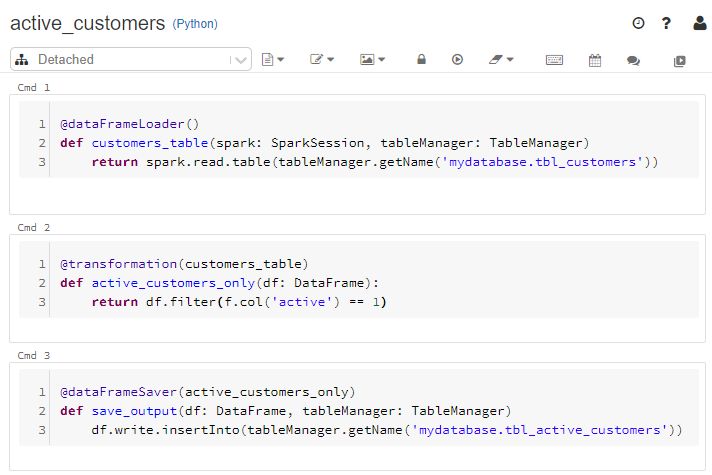
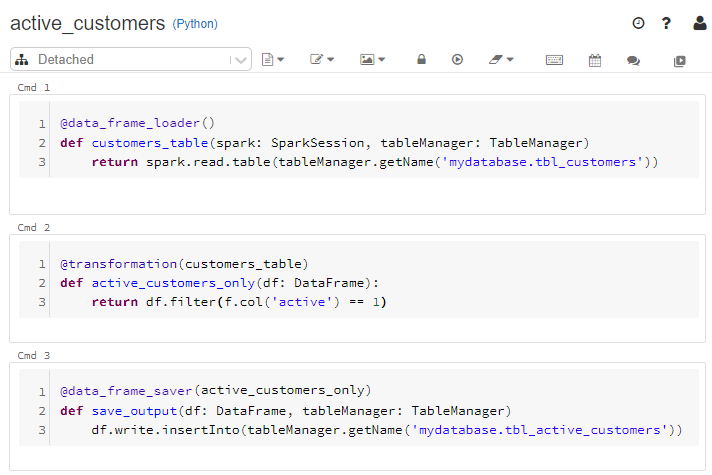
camel2snake conversion

Changed region(s): [[0.0927, 0.7958, 0.5253, 0.8547], [0.0618, 0.2358, 0.309, 0.2947]]

diff --git a/docs/data-pipelines-workflow/managing-datalake.md b/docs/data-pipelines-workflow/managing-datalake.md
@@ -71,7 +71,7 @@ parameters:
     tables:
       customer.my_table:
       product.another_table:
-        partitionBy: ['date'] # optional table partitioning customization
+        partition_by: ['date'] # optional table partitioning customization
 ```
 
 ### (required) Setting datalake storage path
@@ -82,24 +82,24 @@ Add the following configuration to `config.yaml` to set the default storage path
 parameters:
   datalakebundle:
     defaults:
-      targetPath: '/mybase/data/{dbIdentifier}/{tableIdentifier}.delta'
+      target_path: '/mybase/data/{db_identifier}/{table_identifier}.delta'
 ```
 
 When setting `defaults`, you can utilize the following placeholders:
 
 * `{identifier}` - `customer.my_table`
-* `{dbIdentifier}` - `customer`
-* `{tableIdentifier}` - `my_table`
+* `{db_identifier}` - `customer`
+* `{table_identifier}` - `my_table`
 * [parsed custom fields](#8-parsing-fields-from-table-identifier)
 
-To modify storage path of any specific table, add the `targetPath` attribute to given table's configuration:
+To modify storage path of any specific table, add the `target_path` attribute to given table's configuration:
 
 ```yaml
 parameters:
   datalakebundle:
     tables:
       customer.my_table:
-        targetPath: '/some_custom_base/{dbIdentifier}/{tableIdentifier}.delta'
+        target_path: '/some_custom_base/{db_identifier}/{table_identifier}.delta'
 ```
 
 ### Customizing table names
@@ -112,18 +112,18 @@ By default, all tables are prefixed with the environment name (dev/test/prod/...
 parameters:
   datalakebundle:
     table:
-      nameTemplate: '%kernel.environment%_{identifier}'
+      name_template: '%kernel.environment%_{identifier}'
 ```
 
 The `{identifier}` is resolved to the table identifier defined in the `datalakebundle.tables` configuration (see above).
 
-By changing the `nameTemplate` option, you may add some prefix or suffix to both the database, or the table names:
+By changing the `name_template` option, you may add some prefix or suffix to both the database, or the table names:
 
 ```yaml
 parameters:
   datalakebundle:
     table:
-      nameTemplate: '%kernel.environment%_{dbIdentifier}.tableprefix_{tableIdentifier}_tablesufix'
+      name_template: '%kernel.environment%_{db_identifier}.tableprefix_{table_identifier}_tablesufix'
 ```
 
 ## 4. Writing function-based notebooks
@@ -141,13 +141,13 @@ Just write the function, annotate it with `@[decorator]` (details bellow) and ru
 
 ### Datalake-related decorators
 
-Besides the standard `@notebookFunction` decorator, the [datalake-bundle](https://github.com/daipe-ai/datalake-bundle) provides you with **3 new types of decorators**:
+Besides the standard `@notebook_function` decorator, the [datalake-bundle](https://github.com/daipe-ai/datalake-bundle) provides you with **3 new types of decorators**:
  
-`@dataFrameLoader` - loads some Spark dataframe (from Hive table, csv, ...) and returns it
+`@data_frame_loader` - loads some Spark dataframe (from Hive table, csv, ...) and returns it
 
 * Support for displaying results by setting the `display=True` decorator argument.
 
-![alt text](../images/dataFrameLoader.png)
+![alt text](../images/data_frame_loader.png)
 
 `@transformation` - transforms given dataframe(s) (filter, JOINing, grouping, ...) and returns the result
 
@@ -156,9 +156,9 @@ Besides the standard `@notebookFunction` decorator, the [datalake-bundle](https:
 
 ![alt text](../images/transformation.png)
 
-`@dataFrameSaver` - saves given dataframe into some permanent storage (parquet, Delta, csv, ...)
+`@data_frame_saver` - saves given dataframe into some permanent storage (parquet, Delta, csv, ...)
 
-![alt text](../images/dataFrameSaver.png)
+![alt text](../images/data_frame_saver.png)
 
 ### Chaining notebook-functions
 
@@ -180,21 +180,21 @@ parameters:
     tables:
       customer.my_table:
         params:
-          testDataPath: '/foo/bar'
+          test_data_path: '/foo/bar'
 ```
 
 Code of the **customer/my_table.py** notebook:
 
 ```python
 from logging import Logger
-from datalakebundle.notebook.decorators import notebookFunction, tableParams
+from datalakebundle.notebook.decorators import notebook_function, table_params
 
-@notebookFunction(tableParams('customer.my_table').testDataPath)
-def customers_table(testDataPath: str, logger: Logger):
-    logger.info(f'Test data path: {testDataPath}')
+@notebook_function(table_params('customer.my_table').test_data_path)
+def customers_table(test_data_path: str, logger: Logger):
+    logger.info(f'Test data path: {test_data_path}')
 ```
 
-The `tableParams('customer.my_table')` function call is a shortcut to using `%datalakebundle.tables."customer.my_table".params%` string parameter.
+The `table_params('customer.my_table')` function call is a shortcut to using `%datalakebundle.tables."customer.my_table".params%` string parameter.
 
 ## 6. Tables management
 
@@ -206,28 +206,28 @@ The following example recreates the `my_crm.customers` table (delete old data, c
 ```python
 from logging import Logger
 from pyspark.sql.dataframe import DataFrame
-from datalakebundle.notebook.decorators import dataFrameSaver
+from datalakebundle.notebook.decorators import data_frame_saver
 from datalakebundle.table.TableManager import TableManager
 
-@dataFrameSaver()
-def customers_table(df: DataFrame, logger: Logger, tableManager: TableManager):
+@data_frame_saver()
+def customers_table(df: DataFrame, logger: Logger, table_manager: TableManager):
     logger.info('Recreating table my_crm.customers')
 
-    tableManager.recreate('my_crm.customers')
+    table_manager.recreate('my_crm.customers')
 
-    return df.insertInto(tableManager.getName('my_crm.customers'))
+    return df.insertInto(table_manager.get_name('my_crm.customers'))
 ```
 
 **All TableManager's methods**:
 
-* `getName('my_crm.customers')` - returns final table name
-* `getConfig('my_crm.customers')` - returns [TableConfig instance](https://github.com/daipe-ai/datalake-bundle/blob/master/src/datalakebundle/table/config/TableConfig.py)
+* `get_name('my_crm.customers')` - returns final table name
+* `get_config('my_crm.customers')` - returns [TableConfig instance](https://github.com/daipe-ai/datalake-bundle/blob/master/src/datalakebundle/table/config/TableConfig.py)
 * `create('my_crm.customers')` - creates table
-* `createIfNotExists('my_crm.customers')` - creates table only if not exist yet
+* `create_if_not_exists('my_crm.customers')` - creates table only if not exist yet
 * `recreate('my_crm.customers')` - recreates (deletes Hive table, **deletes data**, create new empty table)
 * `exists('my_crm.customers')` - checks if table exists
 * `delete('my_crm.customers')` - deletes Hive table, **deletes data**
-* `optimizeAll()` - runs `OPTIMIZE` command on all defined tables
+* `optimize_all()` - runs `OPTIMIZE` command on all defined tables
 
 ## 7. Managing datalake tables using the console commands
 
@@ -264,7 +264,7 @@ You may always define the attribute **explictly** in the tables configuration:
 parameters:
   datalakebundle:
     table:
-      nameTemplate: '{identifier}'
+      name_template: '{identifier}'
     tables:
       customer_e.my_table:
         encrypted: True
@@ -278,9 +278,9 @@ If you don't want to duplicate the configuration, try using the `defaults` confi
 parameters:
   datalakebundle:
     table:
-      nameTemplate: '{identifier}'
+      name_template: '{identifier}'
       defaults:
-        encrypted: !expr 'dbIdentifier[-1:] == "e"'
+        encrypted: !expr 'db_identifier[-1:] == "e"'
     tables:
       customer_e.my_table:
       product_p.another_table:
@@ -294,25 +294,25 @@ from datalakebundle.table.identifier.ValueResolverInterface import ValueResolver
 
 class TargetPathResolver(ValueResolverInterface):
 
-    def __init__(self, basePath: str):
-        self.__basePath = basePath
+    def __init__(self, base_path: str):
+        self.__base_path = base_path
 
-    def resolve(self, rawTableConfig: Box):
-        encryptedString = 'encrypted' if rawTableConfig.encrypted is True else 'plain'
+    def resolve(self, raw_table_config: Box):
+        encrypted_string = 'encrypted' if raw_table_config.encrypted is True else 'plain'
 
-        return self.__basePath + '/' + rawTableConfig.dbIdentifier + '/' + encryptedString + '/' + rawTableConfig.tableIdentifier + '.delta'
+        return self.__base_path + '/' + raw_table_config.db_identifier + '/' + encrypted_string + '/' + raw_table_config.table_identifier + '.delta'
 ```
 
 ```yaml
 parameters:
   datalakebundle:
     table:
-      nameTemplate: '{identifier}'
+      name_template: '{identifier}'
       defaults:
-        targetPath:
-          resolverClass: 'datalakebundle.test.TargetPathResolver'
-          resolverArguments:
-            - '%datalake.basePath%'
+        target_path:
+          resolver_class: 'datalakebundle.test.TargetPathResolver'
+          resolver_arguments:
+            - '%datalake.base_path%'
     tables:
       customer_e.my_table:
       product_p.another_table:

diff --git a/docs/data-pipelines-workflow/coding-basics.md b/docs/data-pipelines-workflow/coding-basics.md
@@ -11,7 +11,7 @@ Compared to bare notebooks, the function-based approach brings the **following a
 1. utilize pre-configured objects to automate repetitive tasks
 
 Function-based notebooks have been designed to provide the same user-experience as bare notebooks.
-Just write the function, annotate it with the `@notebookFunction` decorator and run the cell.
+Just write the function, annotate it with the `@notebook_function` decorator and run the cell.
 
 ![alt text](../images/notebook-functions.png)
 
@@ -24,11 +24,11 @@ Similarly, once you run the `save_output` function's cell, it gets automatically
 Notebook functions can be injected with objects defined in the app:
 
 ```python
-from databricksbundle.notebook.decorator.notebookFunction import notebookFunction
+from databricksbundle.notebook.decorator.notebook_function import notebook_function
 from logging import Logger
 from pyspark.sql.session import SparkSession
 
-@notebookFunction()
+@notebook_function()
 def customers_table(spark: SparkSession, logger: Logger):
     logger.info('Reading my_crm.customers')
 
@@ -48,14 +48,14 @@ Logger instance for the given notebook.
 
 ### (Expert) Passing explicitly defined services into notebook functions
 
-Services, which cannot be autowired (= classes with multiple instances), can be injected into the notebook functions explicitly using the `@serviceName` notation:
+Services, which cannot be autowired (= classes with multiple instances), can be injected into the notebook functions explicitly using the `@service_name` notation:
 
 ```python
-from databricksbundle.notebook.decorator.notebookFunction import notebookFunction
+from databricksbundle.notebook.decorator.notebook_function import notebook_function
 
-@notebookFunction('@my.service')
-def customers_table(myService: MyClass):
-    myService.doSomething()
+@notebook_function('@my.service')
+def customers_table(my_service: MyClass):
+    my_service.do_something()
 ```
 
 See [Injecta](https://github.com/pyfony/injecta)'s documentation for more details on the syntax.
@@ -76,9 +76,9 @@ Example notebook code:
 
 ```python
 from logging import Logger
-from databricksbundle.notebook.decorator.notebookFunction import notebookFunction
+from databricksbundle.notebook.decorator.notebook_function import notebook_function
 
-@notebookFunction('%csvdata.path%')
-def customers_table(csvDataPath: str, logger: Logger):
-    logger.info(f'CSV data path: {csvDataPath}')
+@notebook_function('%csvdata.path%')
+def customers_table(csv_data_path: str, logger: Logger):
+    logger.info(f'CSV data path: {csv_data_path}')
 ```

diff --git a/docs/data-pipelines-workflow/databricks-connect.md b/docs/data-pipelines-workflow/databricks-connect.md
@@ -7,24 +7,24 @@ In the *[rootpackage]/_config/bundles/databricksbundle.yaml* project bundle conf
 ```yaml
 parameters:
   databricksbundle:
-    databricksConnect:
+    databricks_connect:
       connection:
         address: 'https://dbc-123.cloud.databricks.com'
         token: 'abcd123456'
-        clusterId: '0416-084917-doles835'
+        cluster_id: '0416-084917-doles835'
 ```
 
-If you work with Azure Databricks, you need to specify the `orgId` as well. This parameter can be found in the Databricks Web UI URL (`?o=[orgId]`).
+If you work with Azure Databricks, you need to specify the `org_id` as well. This parameter can be found in the Databricks Web UI URL (`?o=[orgId]`).
 
 ```yaml
 parameters:
   databricksbundle:
-    databricksConnect:
+    databricks_connect:
       connection:
         address: 'https://westeurope.azuredatabricks.net'
         token: 'abcd123456'
-        clusterId: '0416-084917-doles835'
-        orgId: 123456789 # Azure specific parameter
+        cluster_id: '0416-084917-doles835'
+        org_id: 123456789 # Azure specific parameter
 ```
 
 Storing tokens and other sensitive information in YAML configs is generally not a good idea.
@@ -33,12 +33,12 @@ Try moving the token to your environment variables and the *.env* file located i
 ```yaml
 parameters:
   databricksbundle:
-    databricksConnect:
+    databricks_connect:
       connection:
         address: 'https://westeurope.azuredatabricks.net'
         token: '%env(DBX_TOKEN)%'
-        clusterId: '0416-084917-doles835'
-        orgId: 123456789 # Azure specific parameter
+        cluster_id: '0416-084917-doles835'
+        org_id: 123456789 # Azure specific parameter
 ```
 
 ### How to test Databricks connection?

diff --git a/docs/data-pipelines-workflow/local-env-setup.md b/docs/data-pipelines-workflow/local-env-setup.md
@@ -61,7 +61,7 @@ Create a feature branch and then with activated conda environment use the consol
 $ console dbx:deploy --env=dev
 ```
 
-Your feature branch will be deployed to the DEV DataBricks workspace.
+Your feature branch will be deployed to the DEV Databricks workspace.
 
 ![](../images/bricks_feature_branch.png)
 
